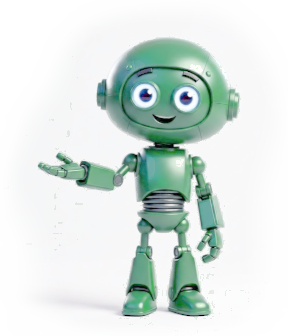
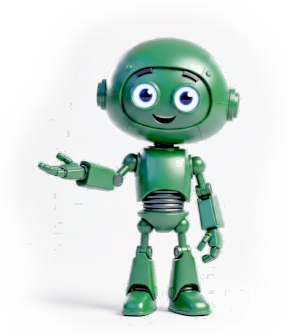
Update pricing section styling and set Pro plan price to /month

Changed region(s): [[0.125, 0.119, 0.8438, 0.9524]]

diff --git a/src/components/landing/PricingSection.tsx b/src/components/landing/PricingSection.tsx
@@ -1,27 +1,57 @@
 import Link from 'next/link';
-import { Check, Sparkles, Zap } from 'lucide-react';
+import { Check, Zap } from 'lucide-react';
 
 export default function PricingSection() {
   return (
-    <section id="pricing" style={{ padding: '6rem var(--section-px)', background: 'var(--bg-glass)' }}>
-      <div style={{ maxWidth: '900px', margin: '0 auto' }}>
+    <section id="pricing" style={{ padding: '6rem var(--section-px)', background: '#a4dbc6' }}>
+      <div style={{ maxWidth: '950px', margin: '0 auto' }}>
         <div style={{ textAlign: 'center', marginBottom: '4rem' }}>
-          <h2 style={{ fontSize: '2.5rem', color: 'var(--text-primary)', marginBottom: '1rem' }}>Simple, Transparent Pricing</h2>
-          <p style={{ color: 'var(--text-secondary)', fontSize: '1.1rem' }}>Choose the plan that fits your career goals.</p>
+          <h2 style={{ fontSize: '2.5rem', fontWeight: 700, color: '#0f172a', marginBottom: '1rem', letterSpacing: '-0.02em' }}>
+            Simple, Transparent Pricing
+          </h2>
+          <p style={{ color: '#1e293b', fontSize: '1.1rem', fontWeight: 500 }}>
+            Choose the plan that fits your career goals.
+          </p>
         </div>
 
-        <div style={{ display: 'grid', gridTemplateColumns: 'repeat(auto-fit, minmax(320px, 1fr))', gap: '2rem', justifyContent: 'center' }}>
+        <div style={{ display: 'grid', gridTemplateColumns: 'repeat(auto-fit, minmax(320px, 1fr))', gap: '2.5rem', alignItems: 'center', justifyContent: 'center' }}>
           {/* Free Tier */}
-          <div className="glass-card" style={{ padding: '2.5rem 2rem', display: 'flex', flexDirection: 'column' }}>
-            <h3 style={{ fontSize: '1.5rem', fontWeight: 700, color: 'var(--text-primary)', marginBottom: '0.5rem' }}>Free Starter</h3>
-            <p style={{ color: 'var(--text-secondary)', fontSize: '0.95rem', marginBottom: '1.5rem', minHeight: '2.8rem' }}>
+          <div style={{ 
+            background: '#ffffff', 
+            borderRadius: '20px', 
+            padding: '2.5rem 2rem', 
+            display: 'flex', 
+            flexDirection: 'column',
+            boxShadow: '0 10px 30px -5px rgba(0, 0, 0, 0.08)',
+            border: '1px solid rgba(0, 0, 0, 0.06)'
+          }}>
+            <h3 style={{ fontSize: '1.5rem', fontWeight: 700, color: '#0f172a', marginBottom: '0.5rem' }}>
+              Free Starter
+            </h3>
+            <p style={{ color: '#475569', fontSize: '0.95rem', marginBottom: '1.5rem', minHeight: '2.8rem' }}>
               Essential job discovery and pipeline tracking.
             </p>
             <div style={{ display: 'flex', alignItems: 'baseline', gap: '0.25rem', marginBottom: '2rem' }}>
-              <span style={{ fontSize: '3rem', fontWeight: 800, color: 'var(--text-primary)' }}>$0</span>
-              <span style={{ color: 'var(--text-secondary)', fontWeight: 500 }}>/month</span>
+              <span style={{ fontSize: '3rem', fontWeight: 800, color: '#0f172a' }}>$0</span>
+              <span style={{ color: '#64748b', fontWeight: 500 }}>/month</span>
             </div>
-            <Link href="/login" className="btn-outline" style={{ width: '100%', textAlign: 'center', textDecoration: 'none', marginBottom: '2rem' }}>
+            <Link 
+              href="/login" 
+              style={{ 
+                width: '100%', 
+                textAlign: 'center', 
+                textDecoration: 'none', 
+                marginBottom: '2rem',
+                padding: '0.85rem 1.5rem',
+                borderRadius: '10px',
+                fontWeight: 600,
+                fontSize: '1rem',
+                color: '#0f172a',
+                background: '#f1f5f9',
+                border: '1px solid #cbd5e1',
+                display: 'inline-block'
+              }}
+            >
               Get Started Free
             </Link>
             <ul style={{ listStyle: 'none', padding: 0, margin: 0, display: 'flex', flexDirection: 'column', gap: '0.85rem' }}>
@@ -31,30 +61,69 @@ export default function PricingSection() {
                 'Interactive Kanban application pipeline',
                 'Standard 1-click apply links',
               ].map((item) => (
-                <li key={item} style={{ display: 'flex', alignItems: 'center', gap: '0.6rem', color: 'var(--text-secondary)', fontSize: '0.9rem' }}>
-                  <Check size={18} color="var(--accent-primary)" style={{ flexShrink: 0 }} />
+                <li key={item} style={{ display: 'flex', alignItems: 'center', gap: '0.6rem', color: '#334155', fontSize: '0.9rem' }}>
+                  <Check size={18} color="#2563eb" style={{ flexShrink: 0 }} />
                   <span>{item}</span>
                 </li>
               ))}
             </ul>
           </div>
 
-          {/* Pro Tier */}
-          <div className="glass-card" style={{ padding: '2.5rem 2rem', display: 'flex', flexDirection: 'column', border: '2px solid var(--accent-primary)', background: 'rgba(37,99,235,0.05)', position: 'relative' }}>
-            <div style={{ position: 'absolute', top: '-14px', left: '50%', transform: 'translateX(-50%)', background: 'var(--accent-primary)', color: '#fff', padding: '0.25rem 1rem', borderRadius: '99px', fontSize: '0.8rem', fontWeight: 700, letterSpacing: '0.03em', boxShadow: '0 4px 12px var(--accent-glow)' }}>
+          {/* Pro Tier (Upgrade to Pro - High Contrast Pop) */}
+          <div style={{ 
+            background: 'linear-gradient(145deg, #0f172a 0%, #1e293b 100%)', 
+            borderRadius: '20px', 
+            padding: '2.75rem 2rem 2.5rem', 
+            display: 'flex', 
+            flexDirection: 'column', 
+            border: '2.5px solid #2563eb', 
+            position: 'relative',
+            boxShadow: '0 25px 50px -12px rgba(15, 23, 42, 0.45)',
+            transform: 'scale(1.02)'
+          }}>
+            <div style={{ 
+              position: 'absolute', 
+              top: '-14px', 
+              left: '50%', 
+              transform: 'translateX(-50%)', 
+              background: '#2563eb', 
+              color: '#ffffff', 
+              padding: '0.3rem 1.2rem', 
+              borderRadius: '99px', 
+              fontSize: '0.8rem', 
+              fontWeight: 700, 
+              letterSpacing: '0.04em', 
+              boxShadow: '0 4px 14px rgba(37, 99, 235, 0.5)' 
+            }}>
               MOST POPULAR
             </div>
-            <h3 style={{ fontSize: '1.5rem', fontWeight: 700, color: 'var(--text-primary)', marginBottom: '0.5rem', display: 'flex', alignItems: 'center', gap: '0.4rem' }}>
-              Pro Unlimited <Zap size={20} color="#f2a900" fill="currentColor" />
+            <h3 style={{ fontSize: '1.5rem', fontWeight: 700, color: '#ffffff', marginBottom: '0.5rem', display: 'flex', alignItems: 'center', gap: '0.4rem' }}>
+              Pro Unlimited <Zap size={20} color="#f59e0b" fill="currentColor" />
             </h3>
-            <p style={{ color: 'var(--text-secondary)', fontSize: '0.95rem', marginBottom: '1.5rem', minHeight: '2.8rem' }}>
+            <p style={{ color: '#94a3b8', fontSize: '0.95rem', marginBottom: '1.5rem', minHeight: '2.8rem' }}>
               Unlimited AI asset generation & automated applications.
             </p>
             <div style={{ display: 'flex', alignItems: 'baseline', gap: '0.25rem', marginBottom: '2rem' }}>
-              <span style={{ fontSize: '3rem', fontWeight: 800, color: 'var(--text-primary)' }}>$29</span>
-              <span style={{ color: 'var(--text-secondary)', fontWeight: 500 }}>/month</span>
+              <span style={{ fontSize: '3rem', fontWeight: 800, color: '#ffffff' }}>$20</span>
+              <span style={{ color: '#94a3b8', fontWeight: 500 }}>/month</span>
             </div>
-            <Link href="/login" className="btn-primary" style={{ width: '100%', textAlign: 'center', textDecoration: 'none', marginBottom: '2rem' }}>
+            <Link 
+              href="/login" 
+              style={{ 
+                width: '100%', 
+                textAlign: 'center', 
+                textDecoration: 'none', 
+                marginBottom: '2rem',
+                padding: '0.85rem 1.5rem',
+                borderRadius: '10px',
+                fontWeight: 700,
+                fontSize: '1rem',
+                color: '#ffffff',
+                background: '#2563eb',
+                boxShadow: '0 4px 14px rgba(37, 99, 235, 0.4)',
+                display: 'inline-block'
+              }}
+            >
               Upgrade to Pro
             </Link>
             <ul style={{ listStyle: 'none', padding: 0, margin: 0, display: 'flex', flexDirection: 'column', gap: '0.85rem' }}>
@@ -66,7 +135,7 @@ export default function PricingSection() {
                 'Automatic Email Sync (Gmail / IMAP)',
                 'Custom Career Page URL Scraper',
               ].map((item) => (
-                <li key={item} style={{ display: 'flex', alignItems: 'center', gap: '0.6rem', color: 'var(--text-primary)', fontSize: '0.9rem', fontWeight: 500 }}>
+                <li key={item} style={{ display: 'flex', alignItems: 'center', gap: '0.6rem', color: '#f1f5f9', fontSize: '0.9rem', fontWeight: 500 }}>
                   <Check size={18} color="#10b981" style={{ flexShrink: 0 }} />
                   <span>{item}</span>
                 </li>
@@ -78,3 +147,4 @@ export default function PricingSection() {
     </section>
   );
 }
+

diff --git a/src/app/(authenticated)/upgrade/page.tsx b/src/app/(authenticated)/upgrade/page.tsx
@@ -104,7 +104,7 @@ export default function PricingPage() {
             Advanced AI tools for serious candidates.
           </p>
           <div style={{ display: "flex", alignItems: "baseline", gap: "0.25rem", marginBottom: "2rem" }}>
-            <span style={{ fontSize: "3rem", fontWeight: 700, color: "var(--text-primary)" }}>$20.00</span>
+            <span style={{ fontSize: "3rem", fontWeight: 700, color: "var(--text-primary)" }}>$20</span>
             <span style={{ color: "var(--text-secondary)", fontWeight: 500 }}>/month</span>
           </div>
           <button